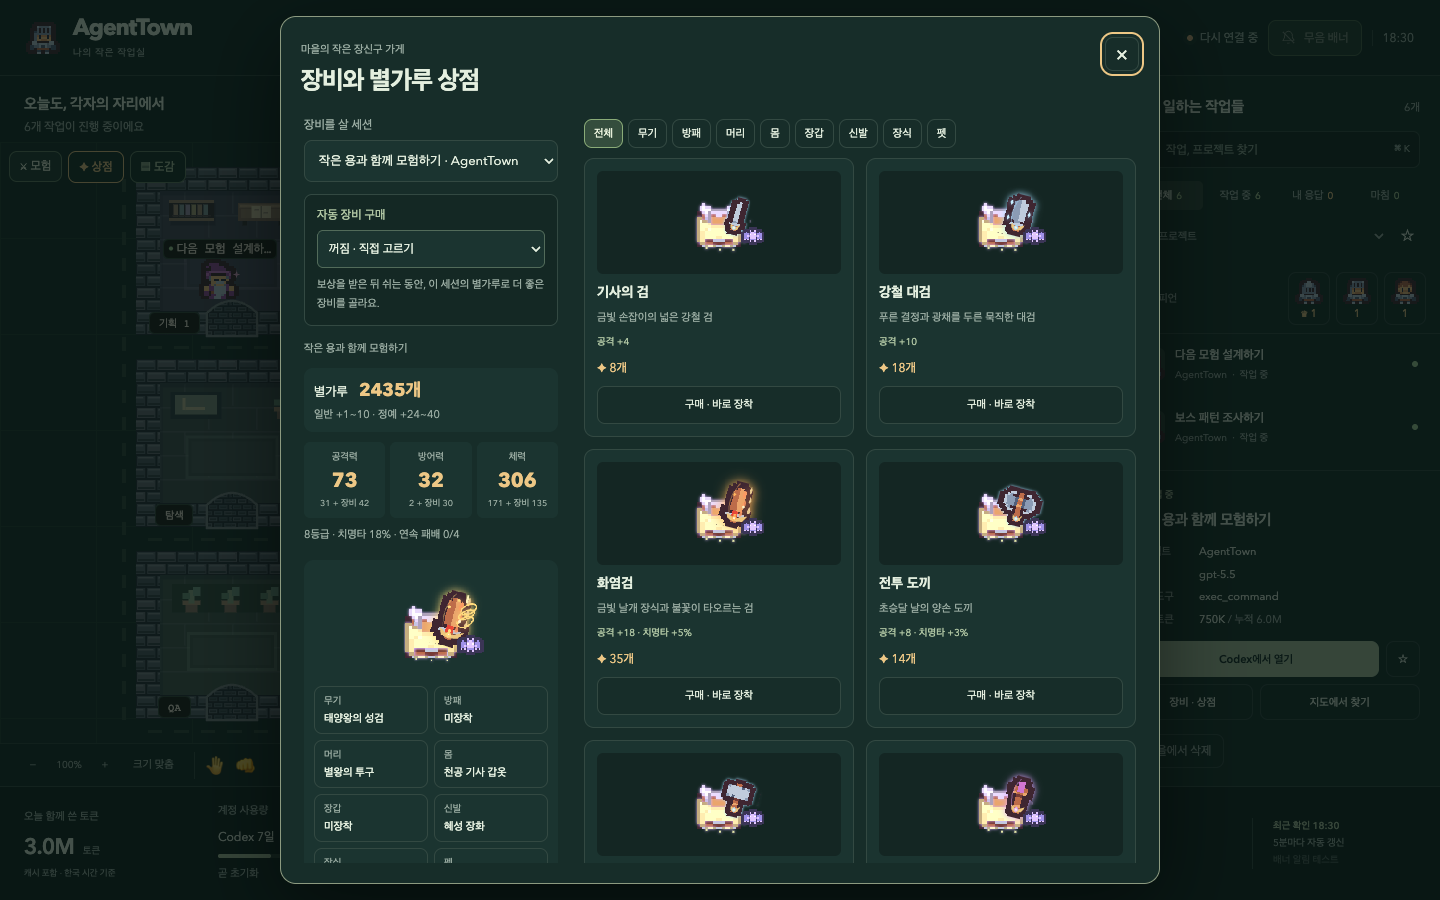
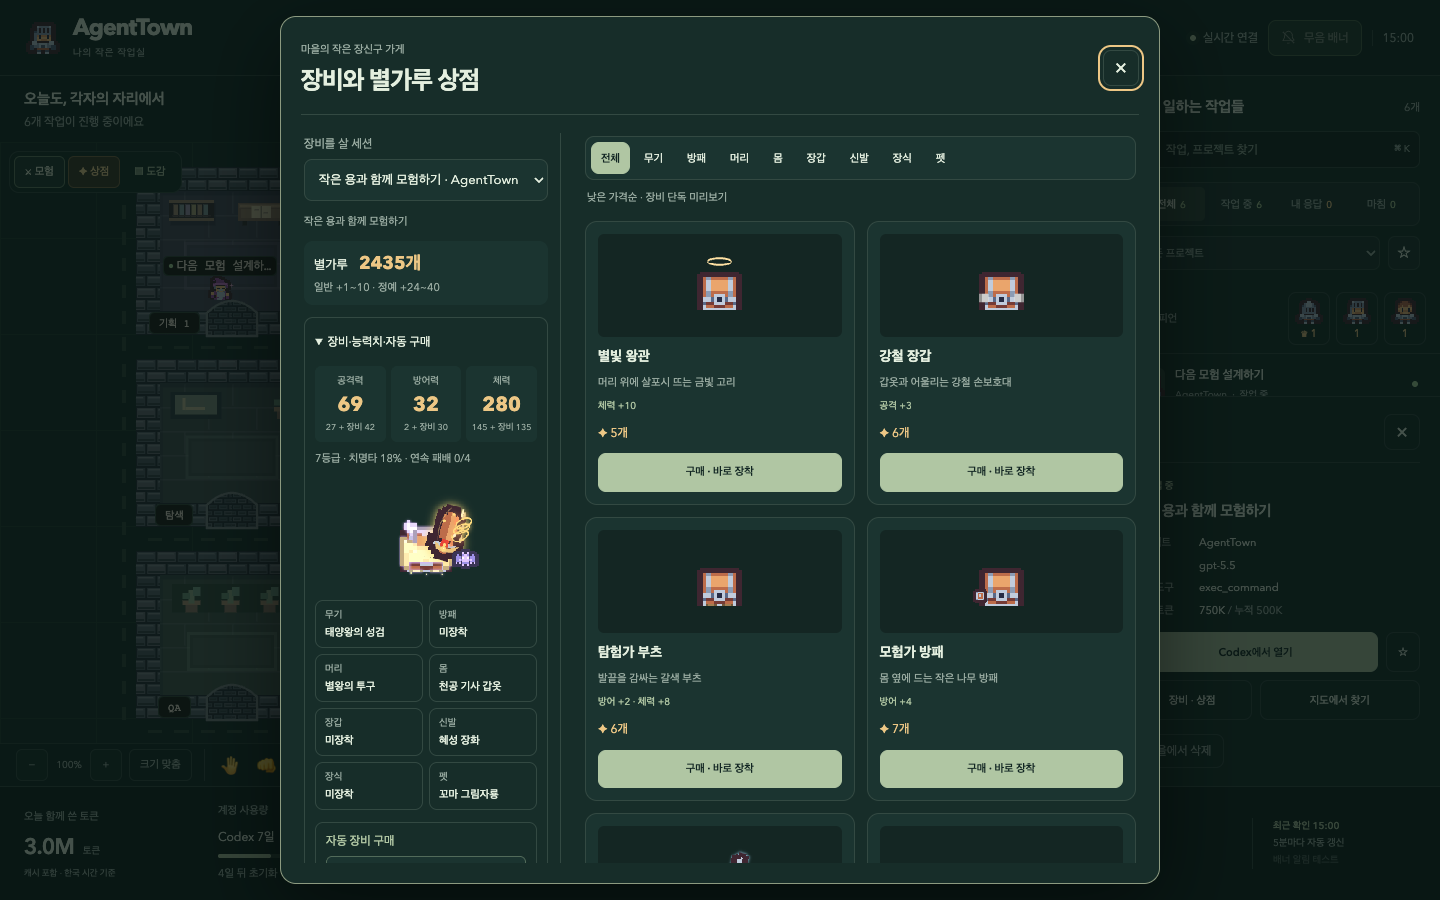
Refresh README screenshots for the latest UI and combat

diff --git a/README.md b/README.md
@@ -30,6 +30,16 @@
 
 ![캐릭터를 선택하면 오른쪽에 나타나는 세션 정보와 작업 열기·상점 버튼](docs/images/session.png)
 
+<details>
+<summary><strong>작은 창의 정돈된 버튼 배치도 보기</strong></summary>
+
+![960×580 작은 창에서 보기 설정과 지도 조작을 구분한 화면](docs/images/town-compact.png)
+
+</details>
+
+상단의 **전투 확대 켬/끔**으로 큰 전투 화면을 선택할 수 있습니다. 끄면 마을 화면을 유지하면서 전투와 보상은 계속 진행됩니다. 상점·도감·작업 목록을 보는 동안에는 새 전투가 기다립니다.
+
+
 ¹ 작업 바로 열기와 네이티브 알림은 데스크톱 앱 기능입니다. 작업 열기는 `codex://`를 처리하는 Codex 앱이 필요하며, 배너 표시는 운영체제 알림 설정을 따릅니다.
 
 ## 작업을 기다리는 동안, 한 판
@@ -40,7 +50,7 @@
 
 - **주민 대전** — 실제 체력으로 겨루고, 상대 등급에 따른 별가루와 승리 기록을 얻습니다. 같은 두 주민은 같은 방에 머무는 동안 계속 재대결하지 않습니다.
 - **몬스터 사냥** — 1~10단계 몬스터와 보스, 그리고 12·14·16단계 상위 보스. 더 강한 적에게 더 큰 보상이 걸려 있습니다.
-- **공격의 리듬** — 기를 모으고, 다가가서 휘두르고, 맞은 쪽이 밀려납니다. 전투가 끝나면 미뤄 둔 방 이동을 이어갑니다.
+- **공격의 리듬** — 기를 모으고, 다가가서 휘두르고, 맞은 쪽이 밀려납니다. 피해가 클수록 더 크게 밀리고 기울며, 전투가 10초를 넘으면 1.3배속으로 진행됩니다. 전투가 끝나면 미뤄 둔 방 이동을 이어갑니다.
 - **중간에도 스킬 발동** — 마지막 공격뿐 아니라 전투 중에도 확률적으로 기술을 사용합니다. 보스에게는 고유 필살기도 있습니다.
 
 ### 다섯 가지 일격, 다섯 가지 연출
@@ -74,16 +84,26 @@
 
 별가루를 모아 **56종의 아이템** 중에서 골라 보세요. 무기·방패·머리·몸·장갑·신발·장식·펫까지, 세션마다 독립된 지갑과 장비를 가집니다.
 
+- 전체·부위별 목록을 **낮은 가격순**으로 정렬합니다. 상품 카드에는 해당 장비만 미리 보여주고, 현재 착용 모습은 별도로 확인할 수 있습니다.
 - 구매한 장비의 공격력·방어력·체력 등 능력치가 전투에 반영됩니다.
 - 화려한 상위 무기, 날개와 장식, 곁을 따라다니는 작은 용과 불사조를 장착할 수 있습니다.
 - 무기는 전투할 때 등장하고, 액세서리와 펫은 마을에서도 함께합니다.
 - 공격·방어 중심 등 자동 장비 선택을 세션별로 설정할 수 있습니다.
 
+<details>
+<summary><strong>좁은 화면에서도 상품부터 보기</strong></summary>
+
+장비·능력치·자동 구매 설정을 접어 상품과 가격을 먼저 보여줍니다. 필요할 때 펼쳐 기존 장비와 자동 구매 방식을 확인할 수 있습니다.
+
+<img src="docs/images/equipment-compact.png" width="390" alt="장비 설정이 접히고 가격순 상품이 먼저 보이는 작은 상점 화면">
+
+</details>
+
 ## 혼자서는 버거운 보스도, 함께라면
 
 ![마을 중앙에 등장한 공동 토벌 보스와 여섯 명의 주민](docs/images/raid.png)
 
-중앙에 균열이 열리면 **휴게실을 제외한 참여 가능한 주민들**이 모여 보스에 맞섭니다. 보스는 한 명을 연속으로 공격하거나 여러 주민을 공격할 수 있습니다. 낮은 등급의 참가자는 승리 시 성장 보너스를 받아 다음 장비에 더 빨리 다가갑니다.
+중앙에 균열이 열리면 **휴게실을 제외한 참여 가능한 주민들**이 모여 보스에 맞섭니다. 주민은 토큰에 따른 몸집 차이를 유지한 채 흩어 서며, 배치는 전투마다 달라집니다. 보스는 한 명을 연속으로 공격하거나 여러 주민을 공격할 수 있습니다. 낮은 등급의 참가자는 승리 시 성장 보너스를 받아 다음 장비에 더 빨리 다가갑니다.
 
 모험 중 만나는 희귀 보물 몬스터, 함께 싸운 친구와 라이벌, 발견한 보스의 기록은 **모험 도감**에 남습니다. 세션이 마을을 떠나도 그 기억은 유지됩니다.
 

diff --git a/docs/images/README.md b/docs/images/README.md
@@ -1,11 +1,11 @@
 # README 화면 캡처
 
-2026-09-15, AgentTown으로 이름을 변경한 앱 코드를 로컬 Chrome에서 실행해 촬영했습니다.
+2026-09-16, 최신 AgentTown 코드를 격리된 로컬 Chrome에서 실행해 14개 이미지를 다시 촬영했습니다.
 
 - 실제 Canvas 렌더러와 상점·도감 화면을 사용했습니다. 별도의 콘셉트 이미지나 합성 UI가 아닙니다.
-- 격리된 브라우저에서 `/events`와 `/api/usage` 응답을 데모로 대체했습니다. 실제 세션이나 계정 정보는 포함하지 않습니다.
+- 격리된 브라우저에서 세션 이벤트와 `/api/usage` 응답을 데모로 대체했습니다. 실제 세션이나 계정 정보는 포함하지 않습니다.
 - 세션 이름, 토큰, 지갑, 장비, 도감 기록은 공개용 예시입니다. 전투는 앱의 전투 함수를 사용하고 시간을 고정해 해당 장면을 캡처했습니다.
-- 원본 화면은 1440×900입니다. 전투 이미지는 같은 화면에서 전투 영역을 1050×600으로 잘라 촬영했습니다.
+- 기본 화면은 1440×900이며, 전투 이미지는 같은 화면의 지도 영역을 캡처했습니다. `town-compact.png`는 960×580, `equipment-compact.png`는 390×700입니다.
 - 게임 본체와 사용자의 저장 데이터는 변경하지 않았습니다.
 
 | 이미지 | 내용 |
@@ -15,7 +15,8 @@
 | `equipment.png` | 세션별 지갑·장착 상태·구매 목록 |
 | `legendary.png` | 주민 대전의 전설검 참격 |
 | `skill-*.png` | 화염·번개·물·바람·안개 일격 |
-| `raid.png` | 6명이 참여하는 공동 토벌 보스 등장 |
+| `raid.png` | 몸 크기를 유지하며 흩어 선 6명의 공동 토벌 |
 | `journal.png` | 보스 발견·승패·마을 사건 기록 |
-
-`duel-arena.png`는 2026-09-16에 갱신한 별빛 결투장입니다. 960×580 브라우저 창에서 실제 Canvas 전투 영역을 캡처했으며 캐릭터 이름·전투는 테스트 데이터입니다.
+| `duel-arena.png` | 최신 별빛 결투장과 피해 반응 |
+| `town-compact.png` | 작은 창의 버튼 배치와 하단 사용량 |
+| `equipment-compact.png` | 접힌 장비 설정과 3×3 분류 버튼 |
